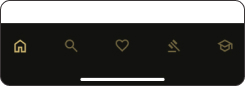
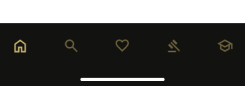
Hotfix/minor-fixes (#3)
* Updated images of menu test

* Navmenu fixes

Changed region(s): [[0.0, 0.2791, 1.0, 1.0], [0.0, 0.0, 1.0, 0.2558]]

diff --git a/src/components/layout/nav-menu-button.tsx b/src/components/layout/nav-menu-button.tsx
@@ -1,55 +1,93 @@
 import React, { ReactElement } from 'react';
-import { styled } from '../theme';
+import { styled, useTheme } from '../theme';
+import { useMediaQuery } from '@mui/system';
+import { Text } from '../typography';
+import { NavLink } from './nav-link';
+
+export type NavMenuButtonVariant = 'open' | 'close';
 
 export interface NavMenuButtonProps {
     className?: string;
-    variant: 'open' | 'close';
+    variant: NavMenuButtonVariant;
     onClick?: () => void;
 }
 
-const Wrapper = styled('div')(({ theme }) => ({
-    cursor: 'pointer',
-}));
+const Wrapper = styled('div')<{ variant: NavMenuButtonVariant }>(
+    ({ theme, variant }) => ({
+        cursor: 'pointer',
+        width: 'auto',
+        height: 'auto',
+    })
+);
+
+const SIZES = {
+    xs: '26',
+    default: '30',
+};
 
 export function NavMenuButton({
     className,
     variant,
     onClick,
 }: NavMenuButtonProps): ReactElement {
+    const theme = useTheme();
+    const isDesktop = useMediaQuery(theme.breakpoints.up(768));
+    const isSmall = useMediaQuery(theme.breakpoints.down(475));
+    const size = isSmall ? SIZES.xs : SIZES.default;
     let icon;
 
     if (variant === 'open') {
-        icon = (
-            <svg
-                width="30"
-                height="26"
-                strokeWidth="2px"
-                strokeLinecap="round"
-                stroke="white"
-            >
-                <path d="M 1 1 H 29" />
-                <path d="M 1 13 H 29" />
-                <path d="M 1 25 H 29" />
-            </svg>
-        );
+        if (isDesktop) {
+            icon = (
+                <NavLink to="#" color="secondary">
+                    Work
+                </NavLink>
+            );
+        } else {
+            icon = (
+                <svg
+                    width={size}
+                    height={size}
+                    strokeWidth="2px"
+                    strokeLinecap="round"
+                    stroke="white"
+                >
+                    <path d="M 1 1 H 29" />
+                    <path d="M 1 13 H 29" />
+                    <path d="M 1 25 H 29" />
+                </svg>
+            );
+        }
     } else {
-        icon = (
-            <svg
-                width="30"
-                height="26"
-                strokeWidth="2"
-                strokeLinecap="round"
-                stroke="white"
-                viewBox="0 0 30 26"
-            >
-                <path d="M 1 1 L 29 25" />
-                <path d="M 29 1 L 1 25" />
-            </svg>
-        );
+        if (isDesktop) {
+            icon = (
+                <NavLink
+                    to="#"
+                    color="secondary"
+                    sx={{ opacity: 0, cursor: 'default' }}
+                >
+                    Work
+                </NavLink>
+            );
+        } else {
+            icon = (
+                <svg
+                    width={size}
+                    height={size}
+                    strokeWidth="2"
+                    strokeLinecap="round"
+                    stroke="white"
+                    viewBox="0 0 30 26"
+                >
+                    <path d="M 1 1 L 29 25" />
+                    <path d="M 29 1 L 1 25" />
+                </svg>
+            );
+        }
     }
 
     return (
-        <Wrapper className={className} onClick={onClick}>
+        <Wrapper className={className} variant={variant} onClick={onClick}>
             {icon}
         </Wrapper>
     );

diff --git a/src/components/layout/nav-menu.tsx b/src/components/layout/nav-menu.tsx
@@ -92,14 +92,15 @@ const MenuList = styled(Stack)<MenuListProps>(({ theme, open }) => ({
     zIndex: 20,
     marginBottom: theme.spacing(5),
     [theme.breakpoints.down('sm')]: {
-        marginBottom: theme.spacing(3),
+        marginBottom: theme.spacing(4),
     },
     [theme.breakpoints.down(330)]: {
-        marginBottom: theme.spacing(2),
+        marginBottom: theme.spacing(3),
     },
 }));
 
 const MenuNavLink = styled(NavLink)(({ theme }) => ({
+    userSelect: 'none',
     [theme.breakpoints.down('sm')]: {
         fontSize: '18px',
         lineHeight: '24px',
@@ -115,7 +116,7 @@ interface ButtonWrapperProps {
 }
 
 const ButtonWrapper = styled('div')<ButtonWrapperProps>(({ theme }) => ({
-    width: '30px',
+    width: 'auto',
     zIndex: 20,
     [theme.breakpoints.down('sm')]: {
         position: 'relative',
@@ -149,7 +150,7 @@ export function NavMenu({ items }: NavGroupProps) {
                     <Menu open={open}>
                         <MenuList
                             open={open}
-                            spacing={{ xs: 3, sm: 3, md: 3 }}
+                            spacing={{ xs: 2, sm: 3, md: 3 }}
                             alignItems={'center'}
                         >
                             {items.map((item) => (

diff --git a/gatsby-browser.tsx b/gatsby-browser.tsx
@@ -2,6 +2,8 @@
 import { WindowLocation } from '@reach/router';
 import { WrapPageElementBrowserArgs } from 'gatsby';
 import React from 'react';
+import { PhotoProvider } from 'react-photo-view';
+import resumePdf from './src/pages/assets/yulia_yukhtenko_resume.pdf';
 import { Layout } from './src/components/layout';
 import { NavItem } from './src/components/link';
 import { ThemeProvider } from './src/components/theme';
@@ -11,7 +13,10 @@ import website from './website.json';
 import GlobalStyle from './src/components/theme/styles';
 import { AppDataProvider } from './src/components/app/context';
 import { AppData } from './src/common/app';
-import { PhotoProvider } from 'react-photo-view';
+
+const FILES: Record<string, string> = {
+    'file://yulia_yukhtenko_resume.pdf': resumePdf,
+};
 
 function buildHeaderLinks(
     loc: WindowLocation,
@@ -22,9 +27,11 @@ function buildHeaderLinks(
 
     if (arePathsEqual(loc.pathname, '/')) {
         data.sections?.forEach((i) => {
+            const filePath = FILES[i.url || ''];
+
             top.push({
                 label: i.title,
-                to: `/${i.path}`,
+                to: filePath || `/${i.path}`,
                 isActive: arePathsEqual(i.path, loc.pathname),
             });
         });

diff --git a/src/pages/home.tsx b/src/pages/home.tsx
@@ -16,14 +16,12 @@ import { HeroPageSection, PageSection } from '../components/sections';
 import { Square } from '../components/shape';
 import { SuperCircle, SuperTriangle } from '../components/super-shapes';
 import { styled, useTheme } from '../components/theme';
-import { Heading, Paragraph, Quote } from '../components/typography';
+import { Heading, Paragraph } from '../components/typography';
 import { ClickAwayListener } from '../components/utils';
 import { WorkList } from '../components/work-list';
 import resumePdf from './assets/yulia_yukhtenko_resume.pdf';
 import { useAppData } from '../components/app/context';
 import { StyledLink } from '../components/link';
-import Box from '@mui/system/Box';
-import { List } from '../components/list/list';
 
 const MainHeading = styled(Heading)(({ theme }) => ({
     marginRight: '0 !important',
@@ -125,7 +123,6 @@ interface Message {
 }
 
 export default function HomePage() {
-    const theme = useTheme();
     const data = useAppData();
     const interests = toChunks(data.interests, 3);
     const [message, setMessage] = React.useState<Message | null>(null);

diff --git a/src/pages/projects/the-oak-gallery/the-oak-gallery.tsx b/src/pages/projects/the-oak-gallery/the-oak-gallery.tsx
@@ -597,7 +597,7 @@ export default function TheOakGalleryPage() {
                                     title="I highlighted the section of the app
                                         where the user is currently located."
                                     before={
-                                        <Image
+                                        <ImageView
                                             src={hfMenuBeforeImage}
                                             alt="Menu Before"
                                             maxWidth="300px"

diff --git a/src/common/section.ts b/src/common/section.ts
@@ -1,13 +1,15 @@
 export class Section {
     public readonly id: string;
     public readonly title: string;
+    public readonly url?: string;
 
     constructor(data: Record<string, any>) {
         this.id = data.id;
         this.title = data.title;
+        this.url = data.url;
     }
 
     public get path(): string {
-        return `#${this.id}`;
+        return this.url || `#${this.id}`;
     }
 }

diff --git a/src/components/link/link.tsx b/src/components/link/link.tsx
@@ -16,6 +16,14 @@ export function Link({
     to,
     children,
 }: PropsWithChildren<LinkProps>) {
+    if (to.includes('static')) {
+        return (
+            <a className={className} href={to}>
+                {children}
+            </a>
+        );
+    }
+
     return (
         <LinkImpl className={className} to={to}>
             {children}
